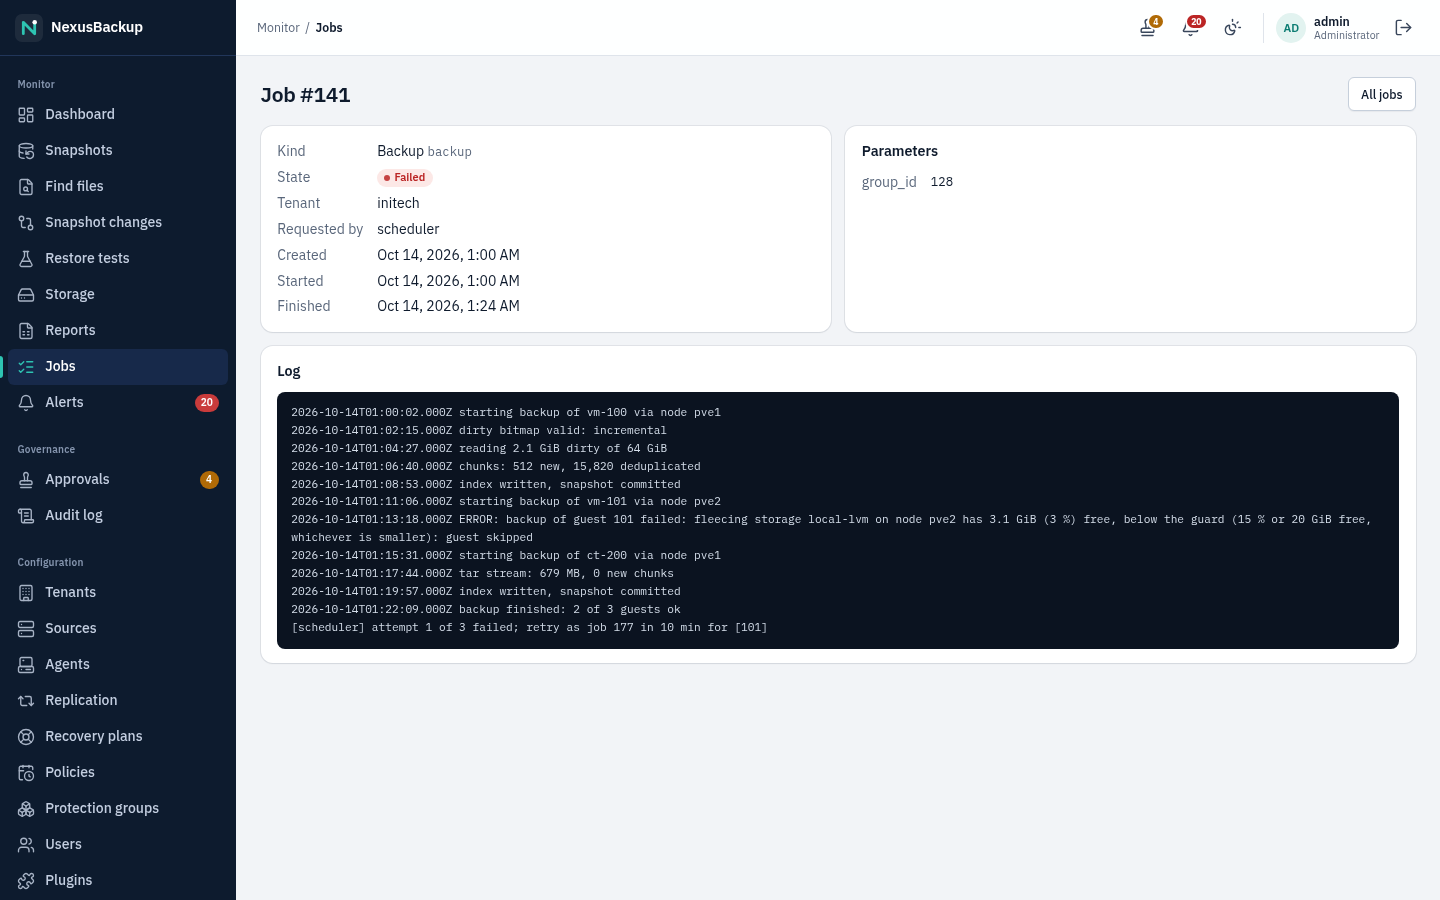
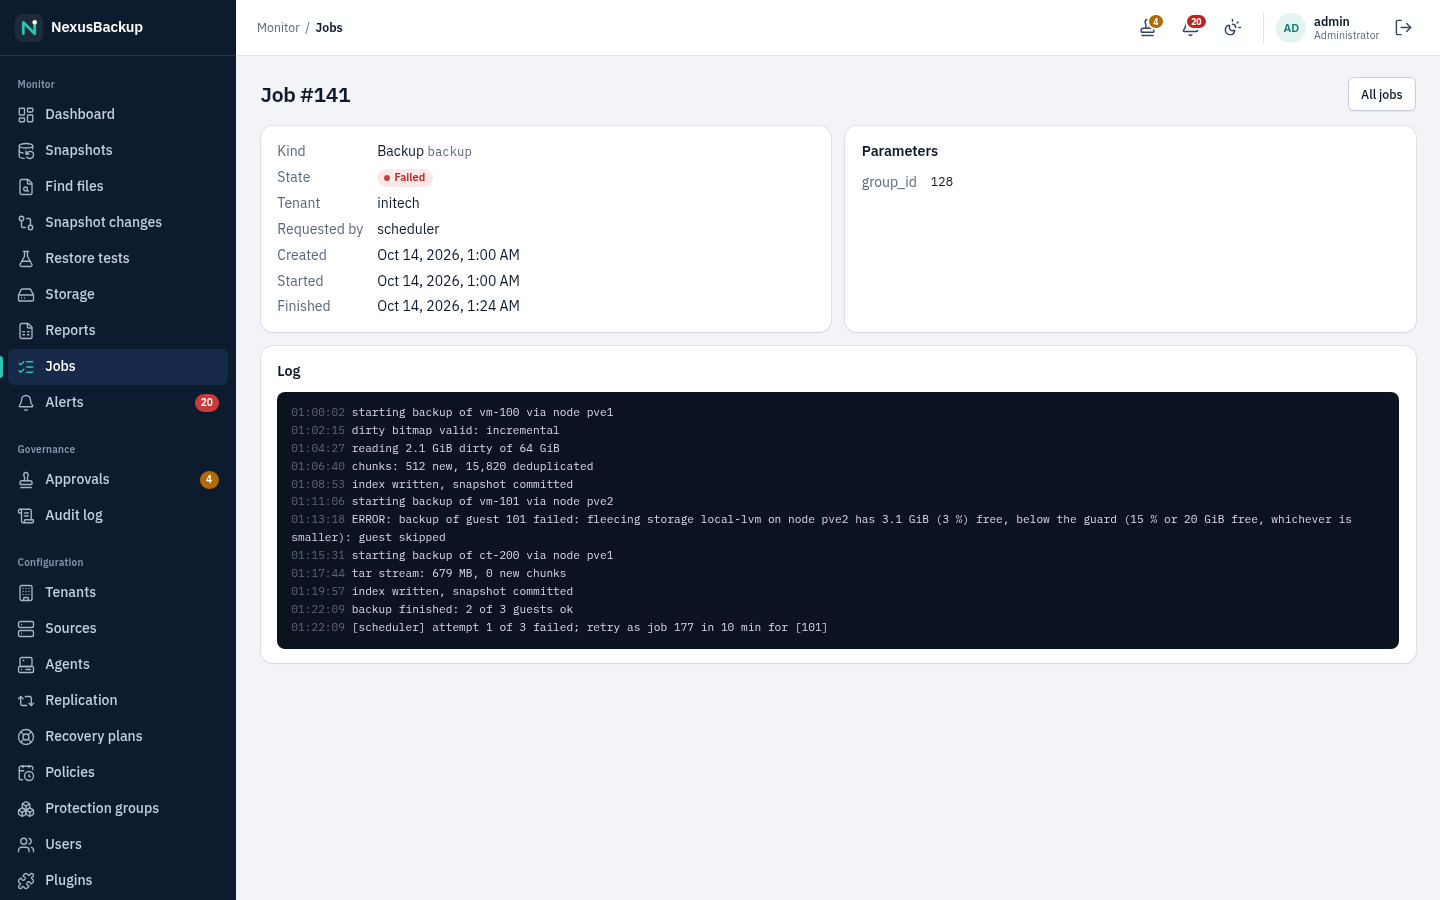
job logs: time marks (@<unix seconds>, written before output whenever the second changed; parsers and alert tails pass over them) shown as a time column on the job page; mock logs carry them too; manual + screenshots

Changed region(s): [[0.1875, 0.4356, 0.9375, 0.7156], [0.4688, 0.4356, 0.5, 0.4667]]

diff --git a/web/src/pages/JobDetail.svelte b/web/src/pages/JobDetail.svelte
@@ -5,7 +5,7 @@
   import { session } from '../lib/session.svelte';
   import { can } from '../lib/roles';
   import { href } from '../lib/router.svelte';
-  import { terminal, downloadUrl, kindLabel } from '../lib/jobs';
+  import { terminal, downloadUrl, kindLabel, logLines, clock } from '../lib/jobs';
   import { fmtBytes, fmtDuration, fmtRate, fmtTime, fmtValue } from '../lib/format';
   import { t } from '../lib/i18n';
   import type { Job } from '../lib/types';
@@ -35,6 +35,9 @@
   }
 
   const live = $derived(!!job && !terminal(job.state));
+  // logs written before the time marks (and plain logs) show without a time column
+  const logView = $derived(logLines(job?.log));
+  const logTimed = $derived(logView.some((l) => l.time !== null));
   const prog = $derived(job?.state === 'running' ? (job.progress ?? null) : null);
   // the connector reports about every 2 s while data flows; a long gap means it waits (vzdump start, a slow source)
   const quiet = $derived(prog?.updated ? Math.max(0, Date.now() / 1000 - prog.updated) : 0);
@@ -261,7 +264,8 @@
         >
       </p>
     {/if}
-    <pre class="log" bind:this={logEl} aria-labelledby="jl">{job.log || '…'}</pre>
+    <pre class="log" bind:this={logEl} aria-labelledby="jl">{#if job.log}{#each logView as l, i (i)}{#if logTimed}<span class="log-time">{l.time === null ? '        ' : clock(l.time)}</span> {/if}{l.text}
+{/each}{:else}…{/if}</pre>
   </section>
 {:else if !error}
   <p class="muted" aria-busy="true">{t.loading}</p>

diff --git a/web/mock/api.ts b/web/mock/api.ts
@@ -4080,8 +4080,28 @@ function mockProgress(j: Job): Json | null {
 const pubJob = (j: Job, withLog: boolean) => {
   const { plan: _p, duration: _d, fail: _f, cancel_at: _c, items: _i, log, ...rest } = j;
   const out = { attempt: 1, retry_of: null, not_before: null, cancel_by: null, ...rest, progress: mockProgress(j) };
-  return withLog ? { ...out, log } : out;
+  return withLog ? { ...out, log: timeMarked(j, log) } : out;
 };
+/** Like the scheduler: an `@<unix seconds>` mark before output whenever the second changed. The
+ * mock's logs carry ISO times at the line start; they become marks (the real log lines have none). */
+function timeMarked(j: Job, log: string): string {
+  if (!log || /^@\d+$/m.test(log)) return log;
+  let last = -1;
+  let t = j.started ?? null;
+  return log
+    .split('\n')
+    .map((l) => {
+      const m = /^(\d{4}-\d\d-\d\dT\d\d:\d\d:\d\d(?:\.\d+)?Z) (.*)$/.exec(l);
+      if (m) {
+        t = Math.floor(Date.parse(m[1]) / 1000);
+        l = m[2];
+      }
+      if (t === null || t === last || l === '') return l;
+      last = t;
+      return `@${t}\n${l}`;
+    })
+    .join('\n');
+}
 on('GET', '/jobs', (c) => {
   const u = need(c.user);
   const s = c.query.get('state');

diff --git a/web/src/lib/jobs.ts b/web/src/lib/jobs.ts
@@ -86,3 +86,21 @@ export function agentStatus(a: Agent, now = Date.now() / 1000): AgentStatus {
   if (a.enrolled_at !== null) return 'enrolled';
   return a.token_expires !== null && a.token_expires > now ? 'pending' : 'expired';
 }
+
+/** Job log lines with their time: `@<unix seconds>` mark lines (written by the scheduler before
+ * output whenever the second changed) set the time of the lines after them and are not shown. */
+export function logLines(log: string | null | undefined): { time: number | null; text: string }[] {
+  const out: { time: number | null; text: string }[] = [];
+  let time: number | null = null;
+  for (const text of (log ?? '').split('\n')) {
+    const m = /^@(\d+)$/.exec(text);
+    if (m) time = Number(m[1]);
+    else out.push({ time, text });
+  }
+  if (out.length && out[out.length - 1].text === '') out.pop();
+  return out;
+}
+
+/** HH:MM:SS of a unix time, local. */
+export const clock = (s: number) =>
+  new Date(s * 1000).toLocaleTimeString(undefined, { hour: '2-digit', minute: '2-digit', second: '2-digit', hour12: false });

diff --git a/web/src/app.css b/web/src/app.css
@@ -2060,6 +2060,10 @@ fieldset.plain {
 
 /* ================================================================ misc */
 
+pre.log .log-time {
+  color: var(--muted);
+  user-select: none;
+}
 pre.log {
   background: #0b1320;
   color: #d5deea;

diff --git a/crates/scheduler/src/run.rs b/crates/scheduler/src/run.rs
@@ -28,6 +28,16 @@ pub struct BoundedLog {
     truncated: bool,
     /// changes so far (the live writer compares)
     seq: u64,
+    /// second of the last `@<unix seconds>` time mark
+    mark: u64,
+}
+
+/// A time mark line of a job log: `@<unix seconds>`, written before output whenever the second
+/// changed. Parsers match line prefixes (`committed `, `nexus-stats ` …) and pass over these; the
+/// UI shows them as the time of the lines that follow.
+pub fn is_time_mark(line: &str) -> bool {
+    line.strip_prefix('@')
+        .is_some_and(|d| !d.is_empty() && d.bytes().all(|b| b.is_ascii_digit()))
 }
 
 impl BoundedLog {
@@ -37,11 +47,21 @@ impl BoundedLog {
             max: max.max(64),
             truncated: false,
             seq: 0,
+            mark: 0,
         }
     }
 
     pub fn push(&mut self, s: &str) {
         self.seq += 1;
+        if self.buf.is_empty() || self.buf.ends_with('\n') {
+            let now = std::time::SystemTime::now()
+                .duration_since(std::time::UNIX_EPOCH)
+                .map_or(0, |d| d.as_secs());
+            if now != self.mark && !s.is_empty() {
+                self.mark = now;
+                self.buf.push_str(&format!("@{now}\n"));
+            }
+        }
         self.buf.push_str(s);
         if self.buf.len() > self.max {
             let mut cut = self.buf.len() - self.max * 3 / 4;
@@ -763,6 +783,18 @@ mod tests {
     }
 
     #[test]
+    fn log_gets_time_marks_parsers_ignore() {
+        let mut l = BoundedLog::new(1 << 20);
+        l.line("committed vm-1/2");
+        l.line("nexus-stats {}");
+        let out = l.finish();
+        assert!(is_time_mark(out.lines().next().unwrap()), "{out}");
+        assert!(out.lines().filter(|x| is_time_mark(x)).count() <= 2, "{out}");
+        assert!(out.lines().any(|x| x == "committed vm-1/2"));
+        assert!(!is_time_mark("@") && !is_time_mark("@12a") && !is_time_mark("committed @1"));
+    }
+
+    #[test]
     fn progress_lines_split_across_reads_stay_out_of_the_log() {
         let log = Mutex::new(BoundedLog::new(1 << 16));
         let progress: Progress = Default::default();
@@ -774,9 +806,15 @@ mod tests {
             Some(&progress),
             false,
         );
-        assert_eq!(log.lock().unwrap().snapshot(), "one\ntwo\n");
+        let text = |log: &Mutex<BoundedLog>| {
+            let s = log.lock().unwrap().snapshot();
+            s.split_inclusive('\n')
+                .filter(|x| !is_time_mark(x.trim_end()))
+                .collect::<String>()
+        };
+        assert_eq!(text(&log), "one\ntwo\n");
         l.feed(b"ee", &log, Some(&progress), true);
-        assert_eq!(log.lock().unwrap().snapshot(), "one\ntwo\nthree");
+        assert_eq!(text(&log), "one\ntwo\nthree");
         let p = progress.lock().unwrap().snapshot(Instant::now()).unwrap();
         assert_eq!((p["item"].as_str(), p["done"].as_u64()), (Some("vm-1"), Some(7)));
     }

diff --git a/crates/scheduler/src/recovery.rs b/crates/scheduler/src/recovery.rs
@@ -589,7 +589,11 @@ impl Scheduler {
                 );
             }
             _ => {
-                let tail = log.lines().rev().find(|l| !l.trim().is_empty()).unwrap_or("no answer");
+                let tail = log
+                    .lines()
+                    .rev()
+                    .find(|l| !l.trim().is_empty() && !crate::run::is_time_mark(l))
+                    .unwrap_or("no answer");
                 check(
                     "target".into(),
                     false,

diff --git a/crates/scheduler/src/endpoint.rs b/crates/scheduler/src/endpoint.rs
@@ -190,7 +190,7 @@ pub fn summary(job: &Job, agent: &str, state: &str, started: i64, ended: i64, lo
             .find(|l| l.contains("rror"))
             .or(lines.last())
             .copied()
-            .or(log.lines().last())
+            .or(log.lines().rev().find(|l| !crate::run::is_time_mark(l)))
             .map(|l| l.chars().take(MAX_LOG_LINE).collect::<String>())
             .unwrap_or_default()
     } else {

diff --git a/crates/scheduler/src/lib.rs b/crates/scheduler/src/lib.rs
@@ -1460,6 +1460,7 @@ impl Scheduler {
                 let tail: String = log
                     .lines()
                     .rev()
+                    .filter(|l| !run::is_time_mark(l))
                     .take(3)
                     .collect::<Vec<_>>()
                     .into_iter()

diff --git a/manual/03-web-interface.md b/manual/03-web-interface.md
@@ -424,6 +424,8 @@ source), the page says so below the figures; the figures are those of the last r
 
 ![A share backup that was not point-in-time consistent](images/job-inconsistent.png)
 
+Every log line shows the time it was written (local time of your browser). Logs of jobs from before this change show no time column.
+
 ## Alerts
 
 ![Alerts](images/alerts.png)
